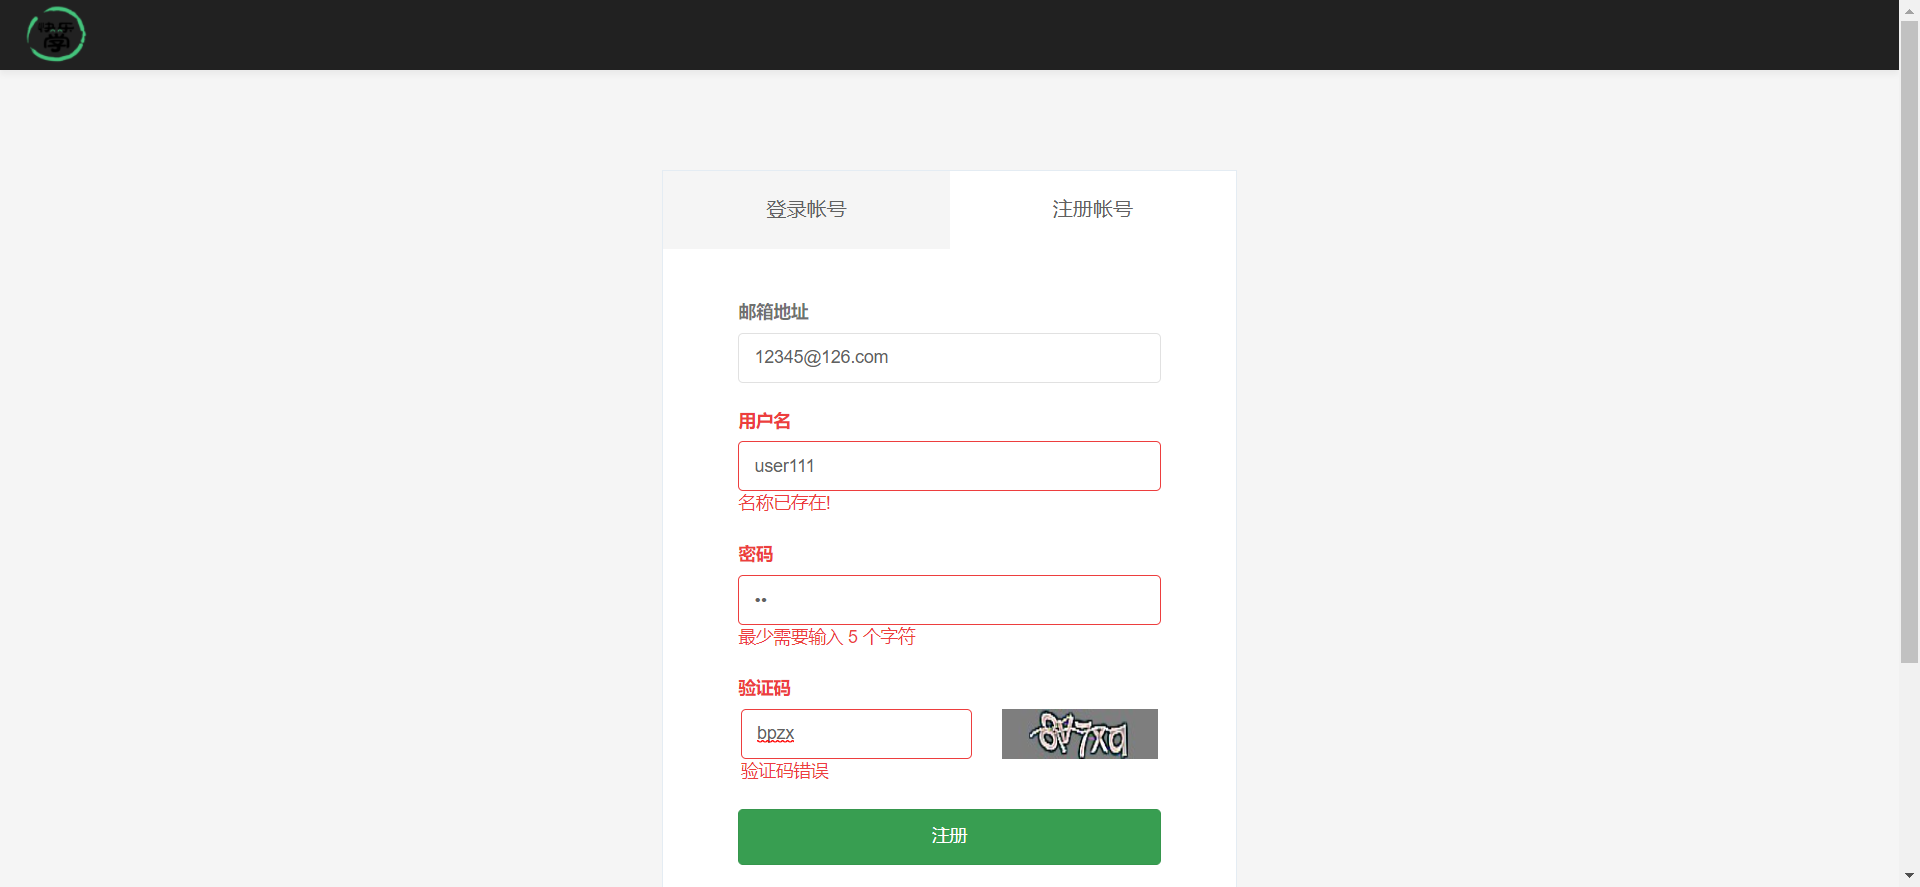
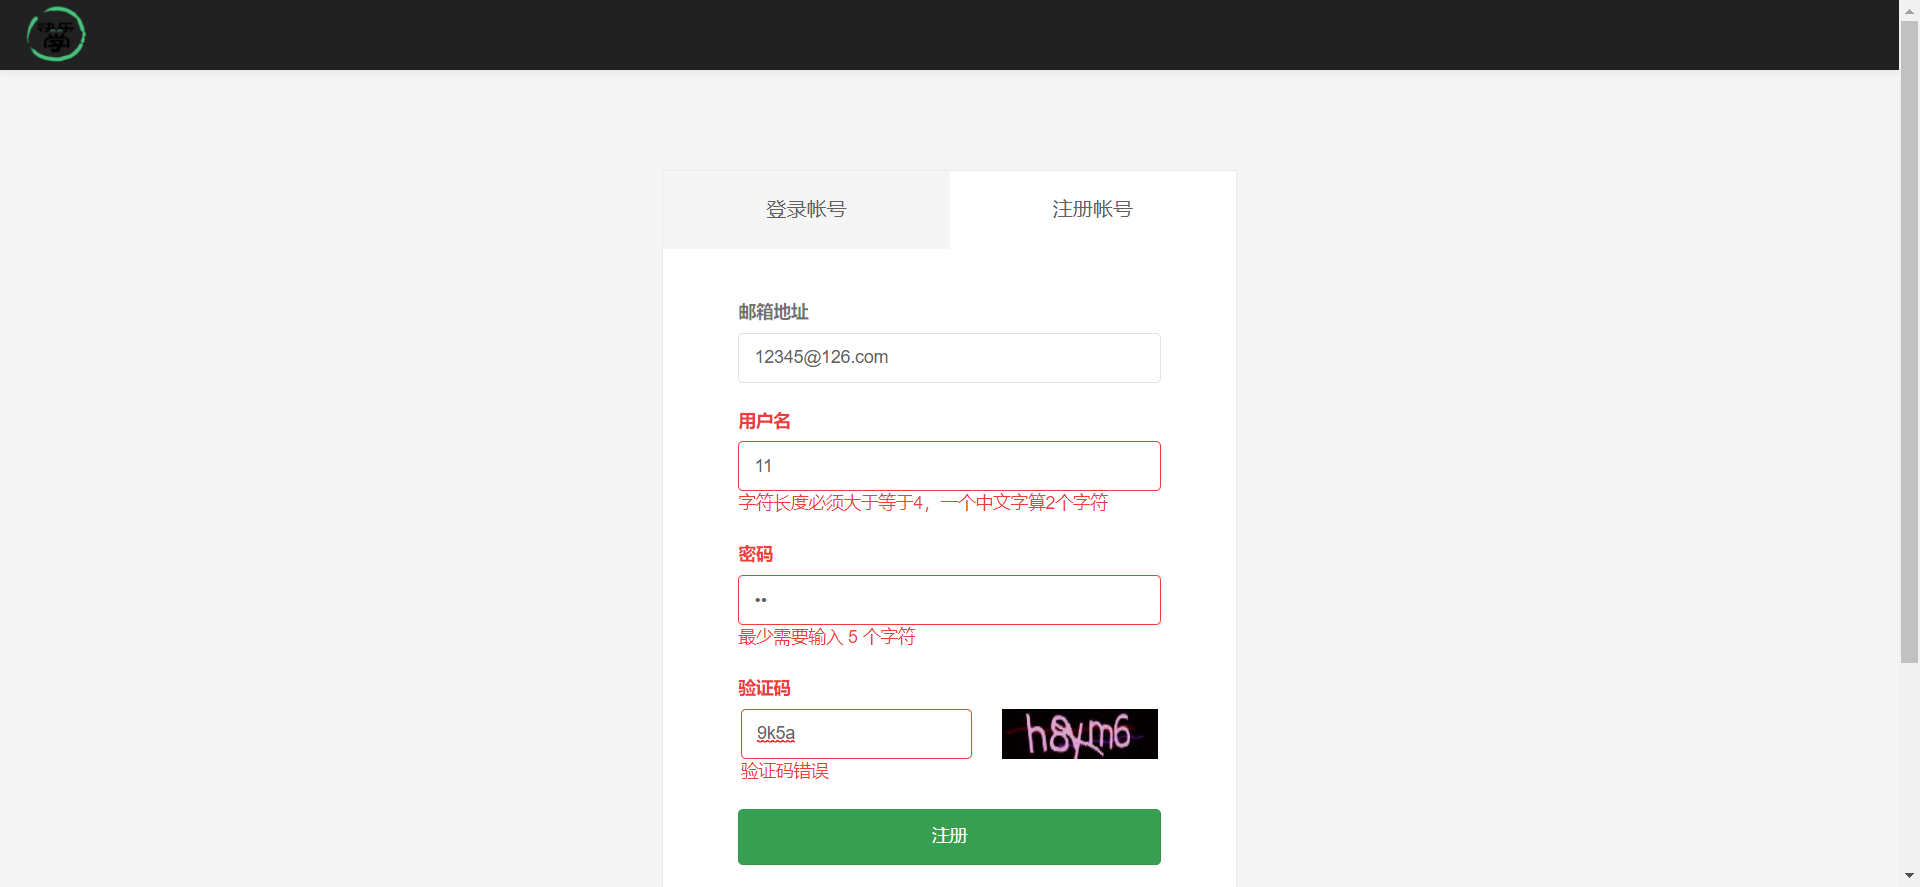
修改判断，加上验证码判断

diff --git a/-Selenium3-Python3-Web--master/handle/register_handle.py b/-Selenium3-Python3-Web--master/handle/register_handle.py
@@ -1,33 +1,35 @@
-#coding=utf-8
+# coding=utf-8
+
 from page.register_page import RegisterPage
 from util.get_code import GetCode
 import time
 
+
 class RegisterHandle(object):
-    def __init__(self,driver):
+    def __init__(self, driver):
         self.driver = driver
         self.register_p = RegisterPage(self.driver)
-    #输入邮箱
-    def send_user_email(self,email):
+
+    # 输入邮箱
+    def send_user_email(self, email):
         self.register_p.get_email_element().send_keys(email)
-        
-    #输入用户名
-    def send_user_name(self,username):
+
+    # 输入用户名
+    def send_user_name(self, username):
         self.register_p.get_username_element().send_keys(username)
 
-    #输入密码
-    def send_user_password(self,password):
+    # 输入密码
+    def send_user_password(self, password):
         self.register_p.get_password_element().send_keys(password)
 
-    #输入验证码
-    def send_user_code(self,file_name):
+    # 输入验证码
+    def send_user_code(self, file_name):
         get_code_text = GetCode(self.driver)
         code = get_code_text.code_online(file_name)
         self.register_p.get_code_element().send_keys(code)
 
-
-    #获取文字信息
-    def get_user_text(self,info,user_info):
+    # 获取文字信息
+    def get_user_text(self, info, user_info):
         try:
             if info == 'user_email_error':
                 text = self.register_p.get_email_error_element().text
@@ -35,19 +37,19 @@ class RegisterHandle(object):
                 text = self.register_p.get_name_error_element().text
             elif info == 'password_error':
                 text = self.register_p.get_password_error_element().text
+            elif info == 'code_text_errorr':
+                text = self.register_p.get_code_error_element().text
             else:
-                text =self.register_p.get_code_error_element().text
+                text = None
         except:
             text = None
         return text
 
-
-
-    #点击注册按钮
+    # 点击注册按钮
     def click_register_button(self):
         self.register_p.get_button_element().click()
 
-    #获取注册按钮文字
+    # 获取注册按钮文字
     def get_register_text(self):
         if self.register_p.get_button_element().text == '':
             return None
@@ -55,24 +57,27 @@ class RegisterHandle(object):
 
 
 if __name__ == '__main__':
-    '''
-    driver = webdriver.Chrome()
-    driver.get("http://www.5itest.cn/register") #打开页面
-    driver.maximize_window() #窗口最大化
-    time.sleep(5)
-    # file_name = ‘’
-    register_handle = RegisterHandle(driver)
-    register_handle.send_user_email("jackie@126.com")
-    register_handle.send_user_name("xiaoli")
-    register_handle.send_user_password("111111")
-    register_handle.send_user_code(file_name)
-    print(register_handle.get_user_text("user_email_error","user_email_error"))
-    print(register_handle.get_user_text("user_name_error","user_name_error"))
-    print(register_handle.get_user_text("password_error","password_error"))
-    print(register_handle.get_user_text("code_text_errorr","code_text_errorr"))
 
-    register_handle.click_register_button()
-    time.sleep(10)
+    # driver = webdriver.Chrome()
+    # driver.get("http://www.5itest.cn/register") #打开页面
+    # driver.maximize_window() #窗口最大化
+    # time.sleep(5)
+    # # file_name = ‘’
+    # register_handle = RegisterHandle(driver)
+    # register_handle.send_user_email("jackie@126.com")
+    # register_handle.send_user_name("xiaoli")
+    # register_handle.send_user_password("111111")
+    # register_handle.send_user_code(file_name)
+    # print(register_handle.get_user_text("user_email_error","user_email_error"))
+    # print(register_handle.get_user_text("user_name_error","user_name_error"))
+    # print(register_handle.get_user_text("password_error","password_error"))
+    # print(register_handle.get_user_text("code_text_errorr","code_text_errorr"))
+    #
+    # register_handle.click_register_button()
+    # time.sleep(10)
     # driver.close()
-    '''
-    pass
+    b = True
+    if b:
+        print(1)
+    else:
+        print(2)

diff --git a/-Selenium3-Python3-Web--master/case/first_case.py b/-Selenium3-Python3-Web--master/case/first_case.py
@@ -53,25 +53,23 @@ class FirstCase(unittest.TestCase):
         #     print("注册成功了，此条case执行失败")
 
     def test_login_password_error(self):
-        password_error = self.login.login_password_error('12345@126.com','user111','11',self.file_name)
+        password_error = self.login.login_password_error('12345@126.com','11','11',self.file_name)
         self.assertIs(password_error,True)
-        # if password_error == True:
+        # if password_error == False:
         #     print("注册成功了，此条case执行失败")
 
     def test_login_code_error(self):
-        code_error = self.login.login_code_error('34','user111','111111',self.file_name)
-        self.assertIs(code_error,True)
-        # if code_error == True:
-        #     print("注册成功了，此条case执行失败")
+        code_error = self.login.login_code_error('34dsdf@qq.com','user111','111111',self.file_name)
+        # self.assertIs(code_error,True)
+        if code_error == True:
+            print("验证码执行失败")
+            return self.test_login_code_error()
 
     def test_login_success(self):
         success = self.login.register_succes("222@qq.com","ss222","111111",self.file_name)
         self.assertIs(success,True)
         # if self.login.register_succes("222@qq.com","ss222","111111",self.file_name) == True:
         #     print('注册成功')
-
-        
-
 
 if __name__ == '__main__':
     # unittest.main()   

diff --git a/-Selenium3-Python3-Web--master/util/read_ini.py b/-Selenium3-Python3-Web--master/util/read_ini.py
@@ -1,12 +1,14 @@
 #coding=utf-8
 import configparser
+import os
+
 """
 该部分代码用于读取ini的配置文件信息
 """
 class ReadIni(object):
     def __init__(self,file_name=None,node=None):
         if file_name == None:
-            file_name = "F:\dailyCode\pythonCode\Selenium3-Python3-Web--master\-Selenium3-Python3-Web--master\config\LocalElement.ini"
+            file_name = "..\config\LocalElement.ini"
         if node == None:
             self.node = "RegisterElement"
         else:
@@ -26,5 +28,6 @@ class ReadIni(object):
         return data
     
 if __name__ == '__main__':
+    print(os.getcwd())
     read_init = ReadIni()
     print(read_init.get_value('user_name'))

diff --git a/-Selenium3-Python3-Web--master/business/register_business.py b/-Selenium3-Python3-Web--master/business/register_business.py
@@ -52,8 +52,10 @@ class RegisterBusiness(object):
     def login_code_error(self,email,name,password,file_name):
         self.user_base(email,name,password,file_name)
         if self.register_h.get_user_text("code_text_error","验证码错误") == None:
+            print('-----验证码正确-------')
             return True
         else:
+            print('=====验证码错误========')
             return False
 
     #注册功能整合，是对上面几个方法的封装，以后只需要调用这一个方法即可

diff --git a/-Selenium3-Python3-Web--master/case/unittest_case01.py b/-Selenium3-Python3-Web--master/case/unittest_case01.py
@@ -28,6 +28,13 @@ class FirstCase01(unittest.TestCase):
     def test_02(self):
         print("这是第02个case")
     
+    def testTrue(self):
+        b = None
+        a = b
+        if a == None:
+            print(1)
+        else:
+            print(2)
 
 if __name__ == '__main__':
     # unittest.main()
